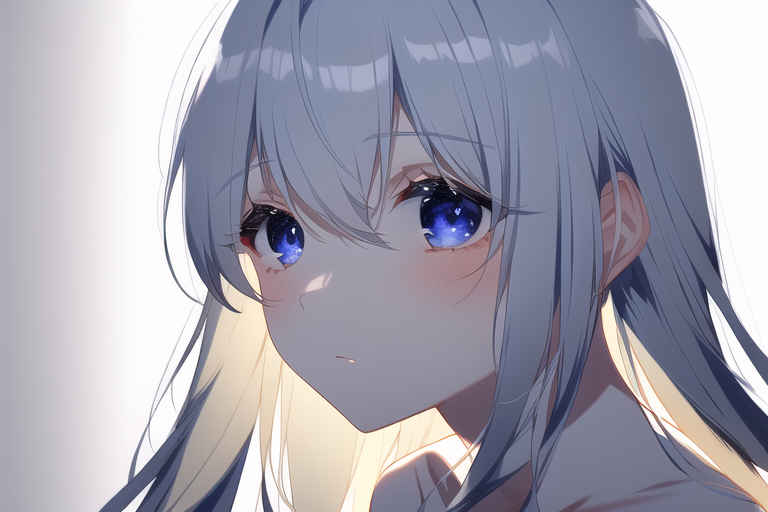
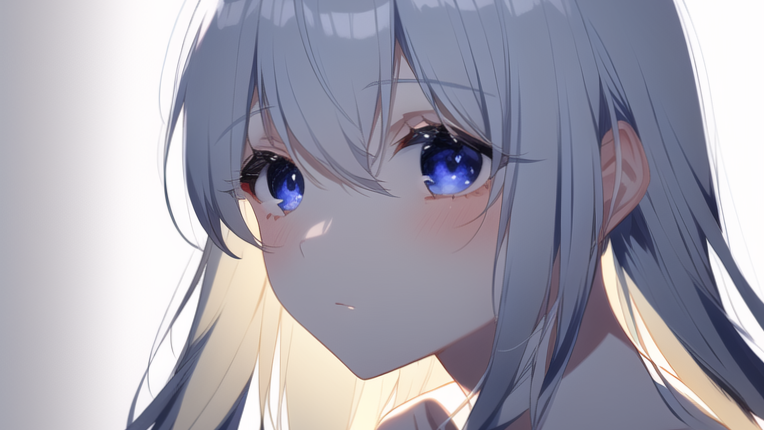
Site updated: 2022-12-21 17:09:29

Changed region(s): [[0.1204, 0.0, 0.7526, 1.0], [0.4215, 0.0, 1.0, 1.0], [0.6021, 0.514, 0.6322, 0.5442]]

diff --git a/index.html b/index.html
@@ -133,7 +133,7 @@
         
 <div class="post">
     <a href="/2022/12/19/SC%E7%A4%BE%E5%88%9D%E4%BD%9C%EF%BC%9A%E3%80%8A%E6%AD%A4%E4%B8%96%E4%B9%8B%E8%8A%B1%E3%80%8B%E5%BC%80%E5%A7%8B%E5%88%B6%E4%BD%9C/" title="SC社初作：《此世之花》开始制作">
-        <img src="/img/welcome-cover.jpg" class="cover" width="680" height="440">
+        <img src="/img/cover.png" class="cover" width="680" height="440">
     </a>
     <div class="else">
         <p>十二月 19, 2022</p>
